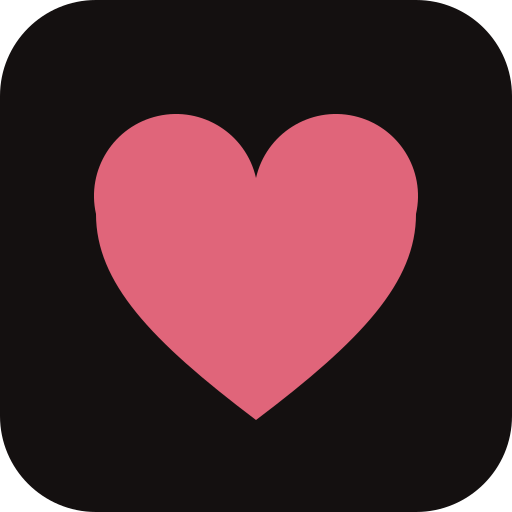
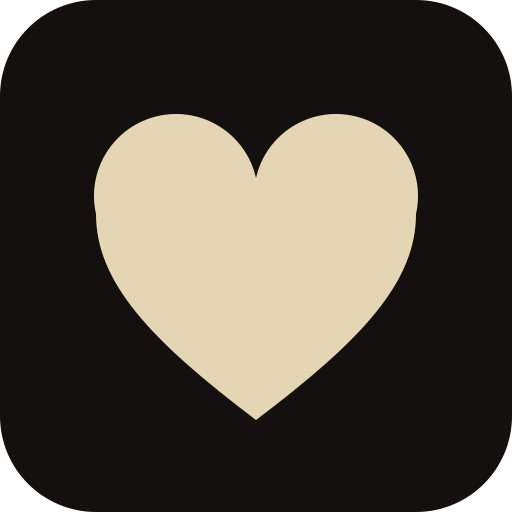
L'icône s'ouvrait sur du vide, et s'appelait Crush Time
Trois retours d'un vrai iPhone, dont un qui rend l'installation inutile.

Le manifeste était servi avec « no-store ». La consigne était là pour que
le jeton qu'il porte ne finisse pas dans un cache partagé — mais elle
interdit aussi à Safari de le garder, et l'application installée se
retrouve sans adresse de départ : page blanche. « private » écarte les
caches partagés et suffit. L'adresse de départ devient absolue au passage,
ce qui lève une ambiguïté de plus pour un manifeste qui porte lui-même une
chaîne de requête.

L'application s'appelle Lille in Love, pas Crush Time. Et pas seulement
dans le manifeste : sur iPhone, c'est « apple-mobile-web-app-title » qui
s'écrit sous l'icône. Next écrit la version standardisée de « capable »,
qu'iOS ne connaît pas encore — on ajoute l'ancienne.

Le cœur passe au doré de la marque, dans l'icône comme dans
l'application : ni jaune, ni rose. Ce qui se remplit porte désormais du
texte sombre — du blanc sur du doré ne se lit pas.

Changed region(s): [[0.1562, 0.2188, 0.8438, 0.8125]]

diff --git a/src/app/crush/crush.css b/src/app/crush/crush.css
@@ -14,7 +14,11 @@
   --or-clair: #e4d6b4;
   --creme: #f6f0e4;
   --creme-doux: #cbc0b2;
-  --rouge: #e0657a;
+  /* Le cœur est doré, comme le reste de la marque : ni jaune ni rose.
+     Deux valeurs — la claire pour ce qui s'écrit sur le fond nuit, la
+     pleine pour ce qui se remplit et porte du texte sombre. */
+  --coeur: #e4d6b4;
+  --coeur-plein: #c3b291;
 
   min-height: 100vh;
   min-height: 100dvh;
@@ -97,7 +101,7 @@
 .cr-erreur {
   font-size: 14px;
   line-height: 1.5;
-  color: var(--rouge);
+  color: var(--coeur);
   margin: 14px 0 0;
 }
 
@@ -158,8 +162,8 @@
 }
 
 .cr-coeur {
-  background: var(--rouge);
-  color: #fff;
+  background: var(--coeur-plein);
+  color: #1c130f;
 }
 
 /* --- La règle du jeu, avant tout le reste ---------------------------- */
@@ -173,8 +177,8 @@
   padding: 14px 16px;
   margin-bottom: 20px;
   border-radius: 14px;
-  border: 1px solid rgba(224, 101, 122, 0.4);
-  background: rgba(224, 101, 122, 0.12);
+  border: 1px solid rgba(227, 214, 180, 0.35);
+  background: rgba(227, 214, 180, 0.09);
   font-size: 15px;
   color: var(--creme);
 }
@@ -227,7 +231,7 @@
 }
 
 .cr-regle-coeur {
-  color: var(--rouge);
+  color: var(--coeur);
   font-size: 18px;
   flex: none;
 }
@@ -298,7 +302,7 @@
 }
 
 .cr-carte[data-choisi] {
-  outline: 2px solid var(--rouge);
+  outline: 2px solid var(--coeur-plein);
   outline-offset: -2px;
 }
 
@@ -332,7 +336,8 @@
 
 .cr-coeur-carte[data-etat='choisi'],
 .cr-coeur-carte[data-etat='match'] {
-  background: var(--rouge);
+  background: var(--coeur-plein);
+  color: #1c130f;
   cursor: default;
 }
 
@@ -361,8 +366,8 @@
   font-weight: 700;
   letter-spacing: 0.1em;
   text-transform: uppercase;
-  background: var(--rouge);
-  color: #fff;
+  background: var(--coeur-plein);
+  color: #1c130f;
   padding: 3px 8px;
   border-radius: 999px;
 }
@@ -466,7 +471,7 @@
 .cr-match-mot {
   font-family: 'Cormorant Garamond', Georgia, serif;
   font-size: 30px;
-  color: var(--rouge);
+  color: var(--coeur);
   margin: 0 0 16px;
 }
 
@@ -537,12 +542,12 @@
 
 /* Dès qu'il y a quelque chose dedans, ça se voit de loin. */
 .cr-matchs-onglet[data-pleins] {
-  border-color: var(--rouge);
-  background: rgba(224, 101, 122, 0.14);
+  border-color: var(--coeur);
+  background: rgba(227, 214, 180, 0.12);
 }
 
 .cr-matchs-coeur {
-  color: var(--rouge);
+  color: var(--coeur);
   font-size: 17px;
 }
 
@@ -557,8 +562,8 @@
 }
 
 .cr-matchs-onglet[data-pleins] b {
-  background: var(--rouge);
-  color: #fff;
+  background: var(--coeur-plein);
+  color: #1c130f;
 }
 
 /* Au plus étroit, « Mes matchs » s'efface : le cœur et le compte suffisent. */
@@ -633,7 +638,7 @@
 }
 
 .cr-compte[data-urgent] {
-  color: var(--rouge);
+  color: var(--coeur);
 }
 
 .cr-attente-compte {

diff --git a/src/app/crush/manifeste/route.ts b/src/app/crush/manifeste/route.ts
@@ -17,15 +17,24 @@ export const dynamic = 'force-dynamic';
  * fichier statique.
  */
 export async function GET(requete: Request) {
-  const jeton = new URL(requete.url).searchParams.get('t') ?? '';
+  const adresse = new URL(requete.url);
+  const jeton = adresse.searchParams.get('t') ?? '';
   const participant = jeton ? await parLien(jeton) : null;
 
-  const depart = participant ? `/crush/c/${participant.jeton}` : '/crush';
+  // Adresse absolue, construite sur celle qu'on vient de nous demander :
+  // un chemin relatif se résout normalement sans peine, mais pas toujours
+  // depuis un manifeste qui porte lui-même une chaîne de requête — et une
+  // icône qui s'ouvre sur une page blanche ne se rattrape pas un soir de
+  // soirée.
+  const depart = new URL(
+    participant ? `/crush/c/${participant.jeton}` : '/crush',
+    adresse.origin,
+  ).toString();
 
   return NextResponse.json(
     {
-      name: 'Crush Time — Lille in Love',
-      short_name: 'Crush Time',
+      name: 'Lille in Love',
+      short_name: 'Lille in Love',
       description: 'Les profils de la soirée, le temps d’un crush time.',
       start_url: depart,
       // La portée couvre tout ce que voit un participant, et rien d'autre :
@@ -45,8 +54,11 @@ export async function GET(requete: Request) {
     {
       headers: {
         'Content-Type': 'application/manifest+json; charset=utf-8',
-        // Il porte un jeton : aucun cache partagé ne doit le garder.
-        'Cache-Control': 'private, no-store',
+        // « private » suffit à écarter les caches partagés, et il le faut :
+        // ce manifeste porte un jeton. Mais pas « no-store » — Safari doit
+        // pouvoir le garder, sinon l'icône posée sur l'écran d'accueil n'a
+        // plus d'adresse de départ et s'ouvre sur une page blanche.
+        'Cache-Control': 'private, max-age=3600',
       },
     },
   );

diff --git a/src/app/crush/layout.tsx b/src/app/crush/layout.tsx
@@ -2,13 +2,26 @@ import type { Metadata, Viewport } from 'next';
 import './crush.css';
 
 export const metadata: Metadata = {
-  title: 'Crush Time — Lille in Love',
+  title: 'Lille in Love — Crush Time',
   description: 'Les profils de la soirée, le temps d’un crush time.',
   robots: { index: false, follow: false },
   // iOS ne lit pas les icônes du manifeste pour l'écran d'accueil : il ne
   // regarde que celle-ci. Sans elle, l'icône serait une capture floue de
   // la page.
   icons: { apple: '/crush-apple-touch.png' },
+  appleWebApp: {
+    // C'est ce titre-là qui s'écrit sous l'icône sur iPhone : le manifeste
+    // n'a pas toujours le dernier mot.
+    title: 'Lille in Love',
+    capable: true,
+    statusBarStyle: 'black-translucent',
+  },
+  other: {
+    // Next écrit « mobile-web-app-capable », le nom standardisé. iOS ne
+    // connaît que l'ancien, et c'est lui qui décide si l'icône s'ouvre en
+    // plein écran ou dans un Safari miniature.
+    'apple-mobile-web-app-capable': 'yes',
+  },
 };
 
 export const viewport: Viewport = {
